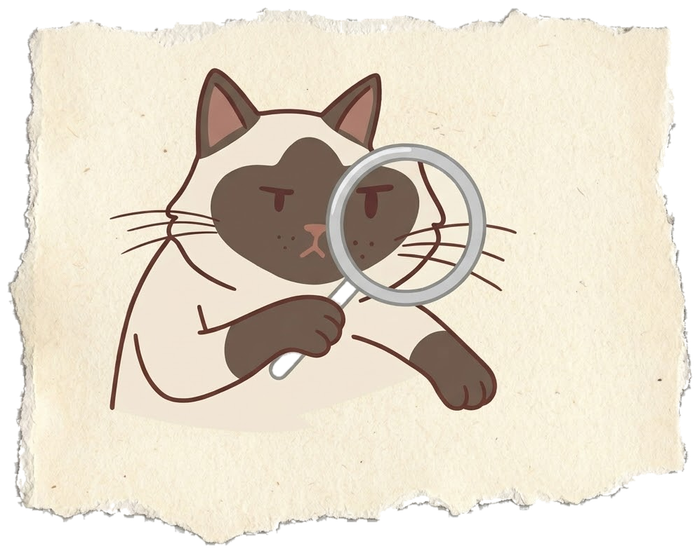
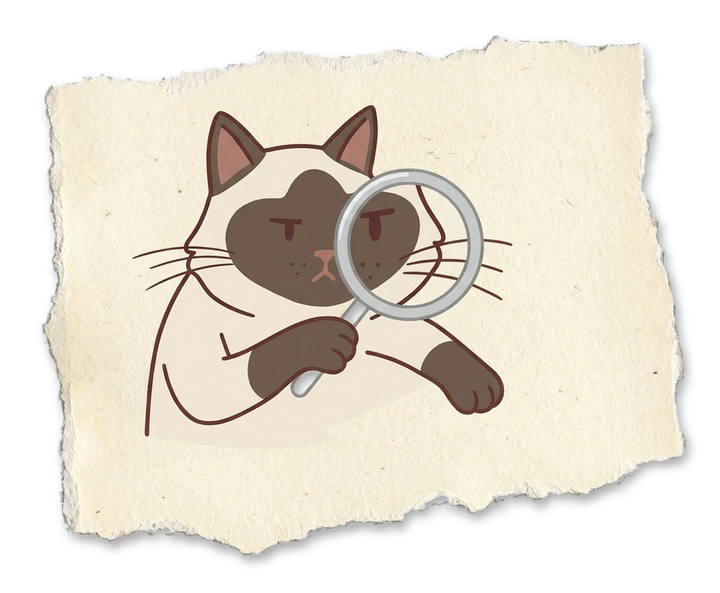
Tilt the paper and note images with soft shadows; alternate sides
Claude-Session: https://claude.ai/code/session_01XpQkQydNZbX3KF3ViNqc1T

Changed region(s): [[0.0, 0.0, 0.99, 0.9837], [0.33, 0.4611, 0.39, 0.4919], [0.3, 0.4919, 0.33, 0.5226]]

diff --git a/README.md b/README.md
@@ -63,7 +63,7 @@ Your expected growth shapes the code. Say a hot path may move to Rust and the ag
 
 ## The rules it never lets slide
 
-<img src="assets/cat-detective.png" align="right" width="300" alt="A cream cat with a brown mask peering through a magnifying glass, drawn on torn paper">
+<img src="assets/cat-detective.png" align="right" width="300" alt="A cream cat with a brown mask peering through a magnifying glass, drawn on torn paper, tilted">
 
 - Done means the real problem is solved and verified by running the code. Passing tests are evidence, not the goal.
 - Never edit, delete, skip or loosen an existing test to get green.
@@ -103,7 +103,7 @@ Delete `tabby/evals/` if you do not run evals. Any agent that reads `SKILL.md` f
 
 ## FAQ
 
-<img src="assets/cat-sleeping.png" align="right" width="260" alt="A black and white cat asleep in a curled circle, drawn in pen on a yellow lined sticky note">
+<img src="assets/cat-sleeping.png" align="left" width="280" alt="A black and white cat asleep in a curled circle, drawn in pen on a yellow lined sticky note, tilted">
 
 **Where does it keep what it learns?** In your repo, in `AGENTS.md`, under `## Tabby` (what the project is for and where it is going) and `## Python defaults` (tools and style). Plain text; edit it like anything else.
 
@@ -115,7 +115,7 @@ Delete `tabby/evals/` if you do not run evals. Any agent that reads `SKILL.md` f
 
 **What does it cost in context?** One short description is always loaded. The router and a module index load when a task needs them, then only the reference files that task names.
 
-<br clear="right">
+<br clear="left">
 
 ## Planned
 
